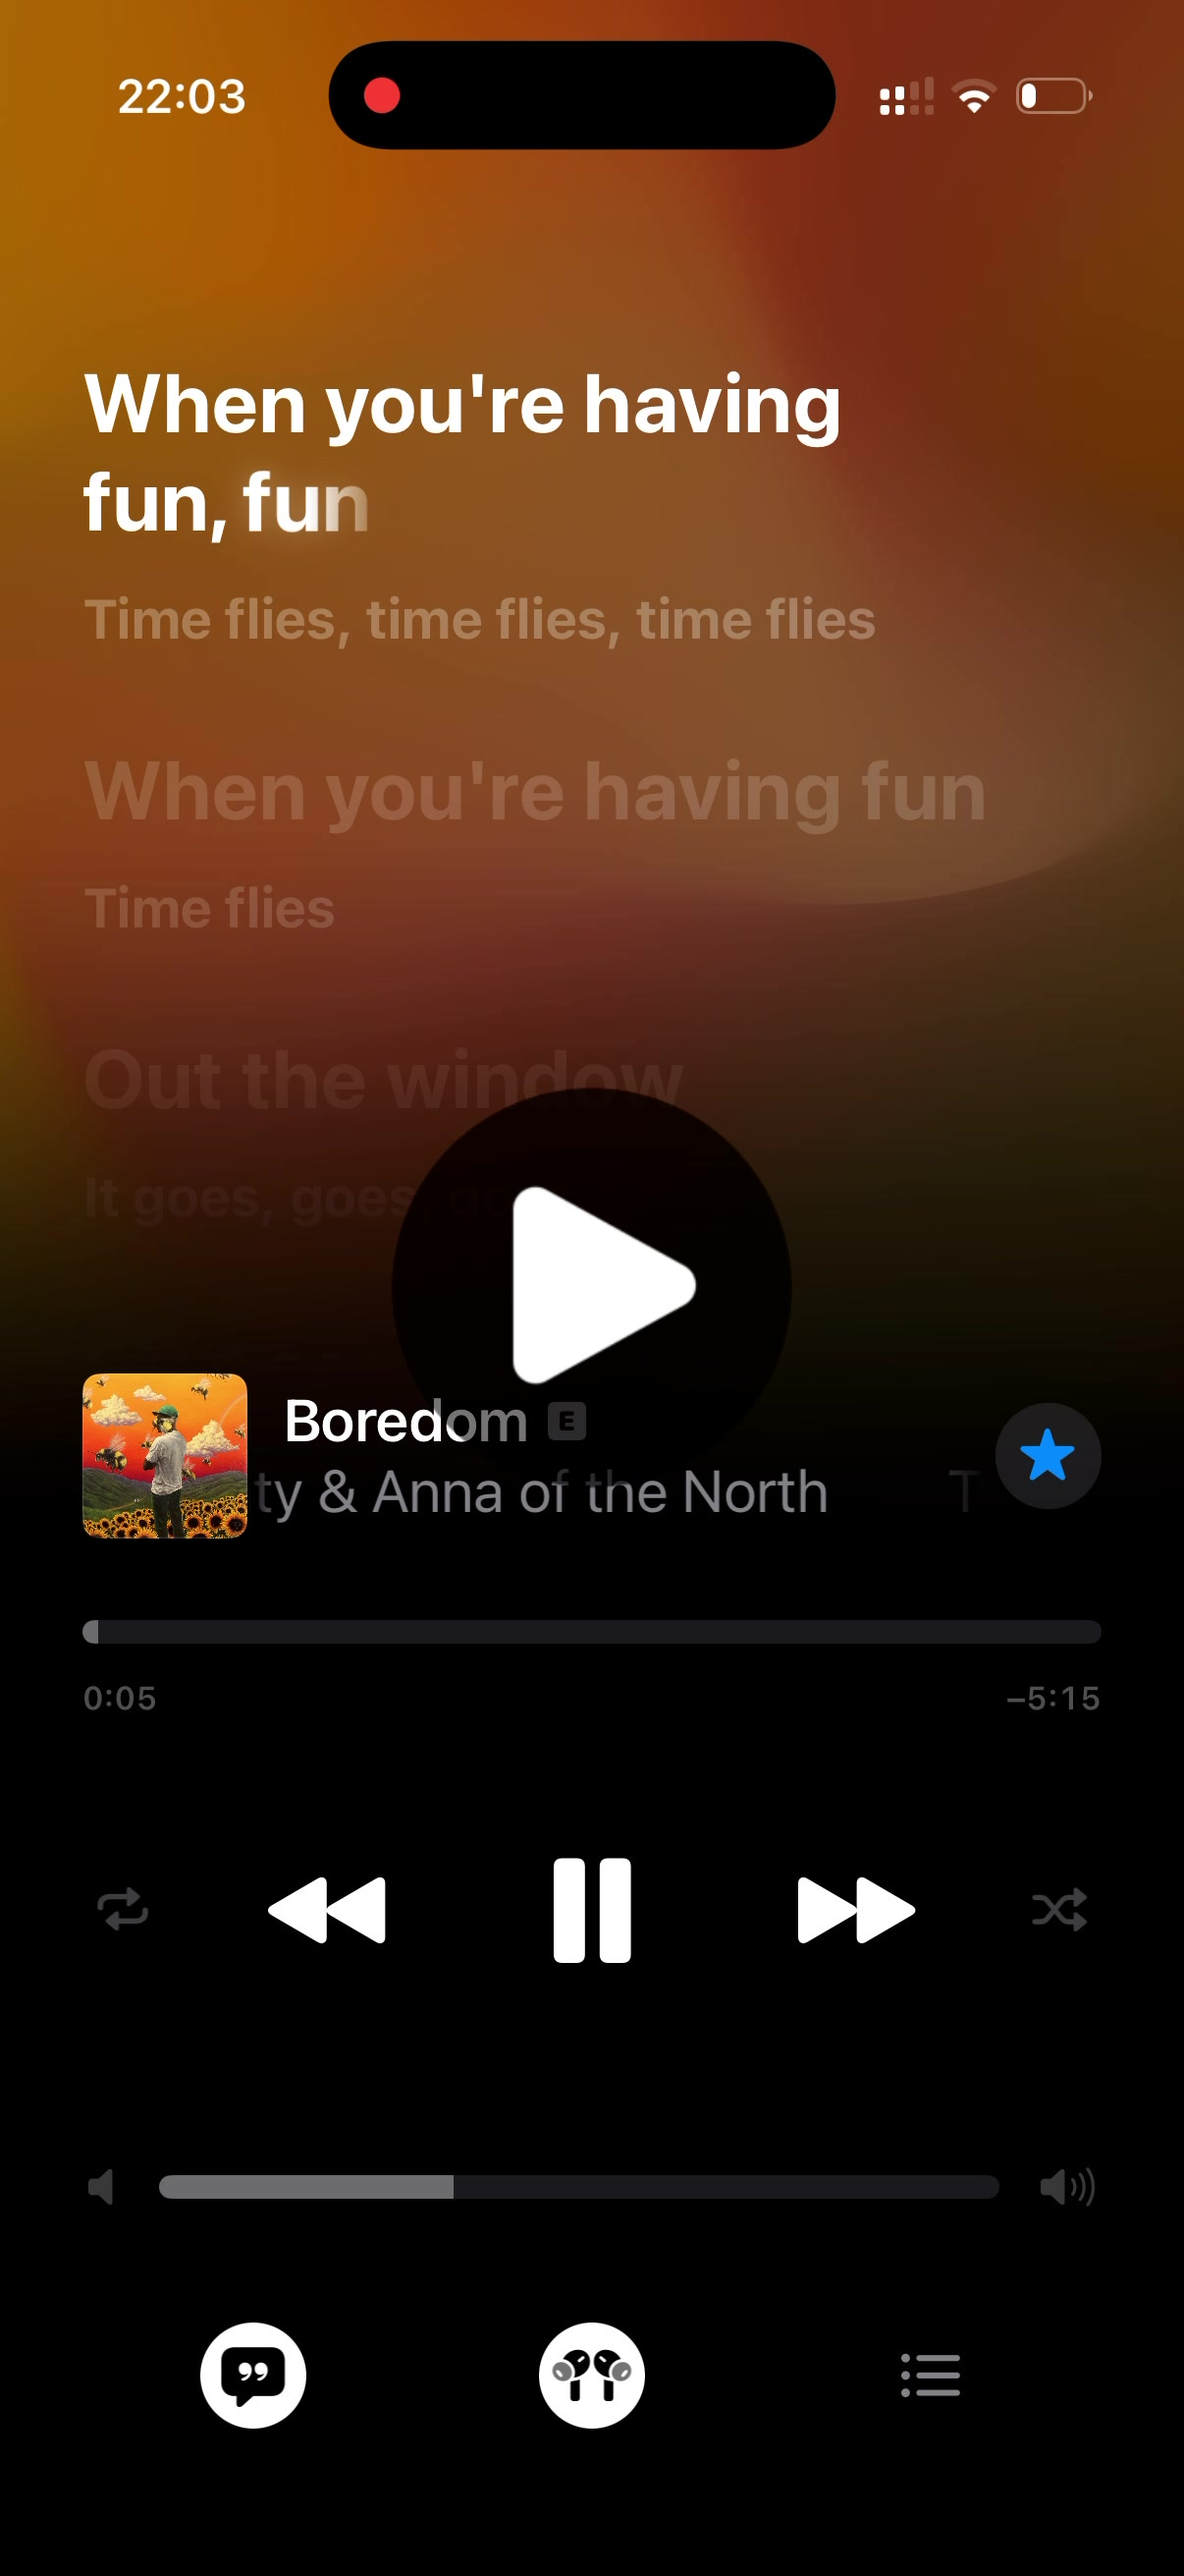
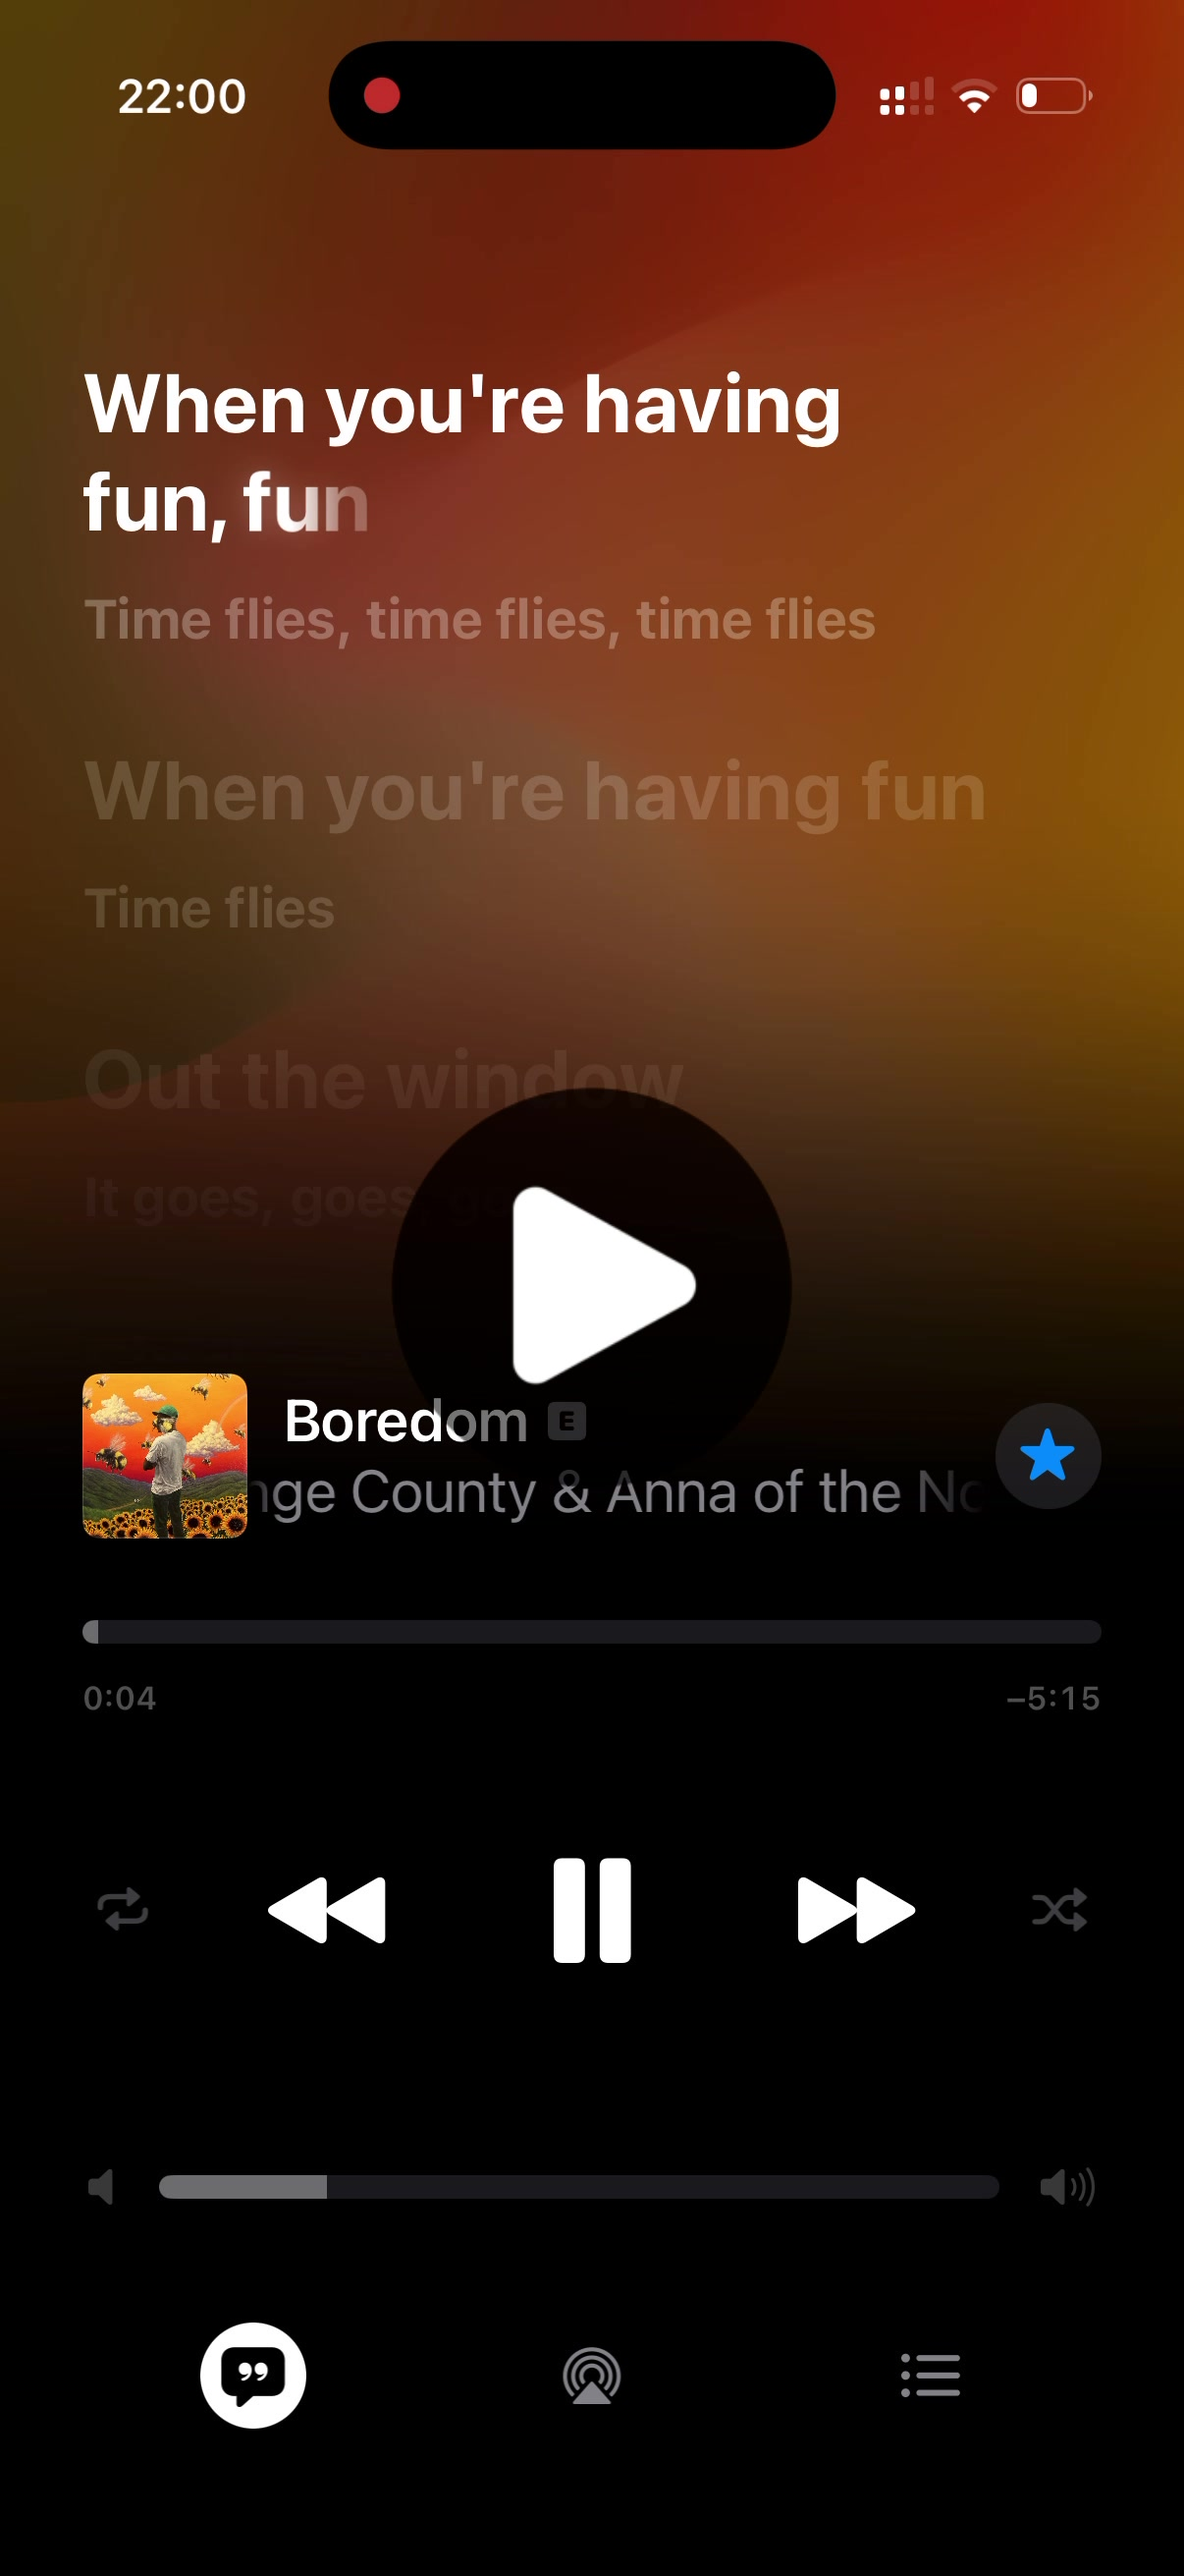
Update README.md

diff --git a/README.md b/README.md
@@ -26,7 +26,7 @@ Currently available for iPhone, with support for Navidrome and other Subsonic-co
 <table>
   <tr>
     <td align="center">
-      <a href="https://github.com/user-attachments/assets/83da9384-abbe-4e6b-9017-fa5931e6bc89">
+      <a href="https://github.com/user-attachments/assets/a73b576b-c572-4fbc-aae8-9fdb05d97b29">
         <img src="assets/videos/lyrics.jpg" width="200" alt="Synced Lyrics video preview">
       </a>
       <br>
